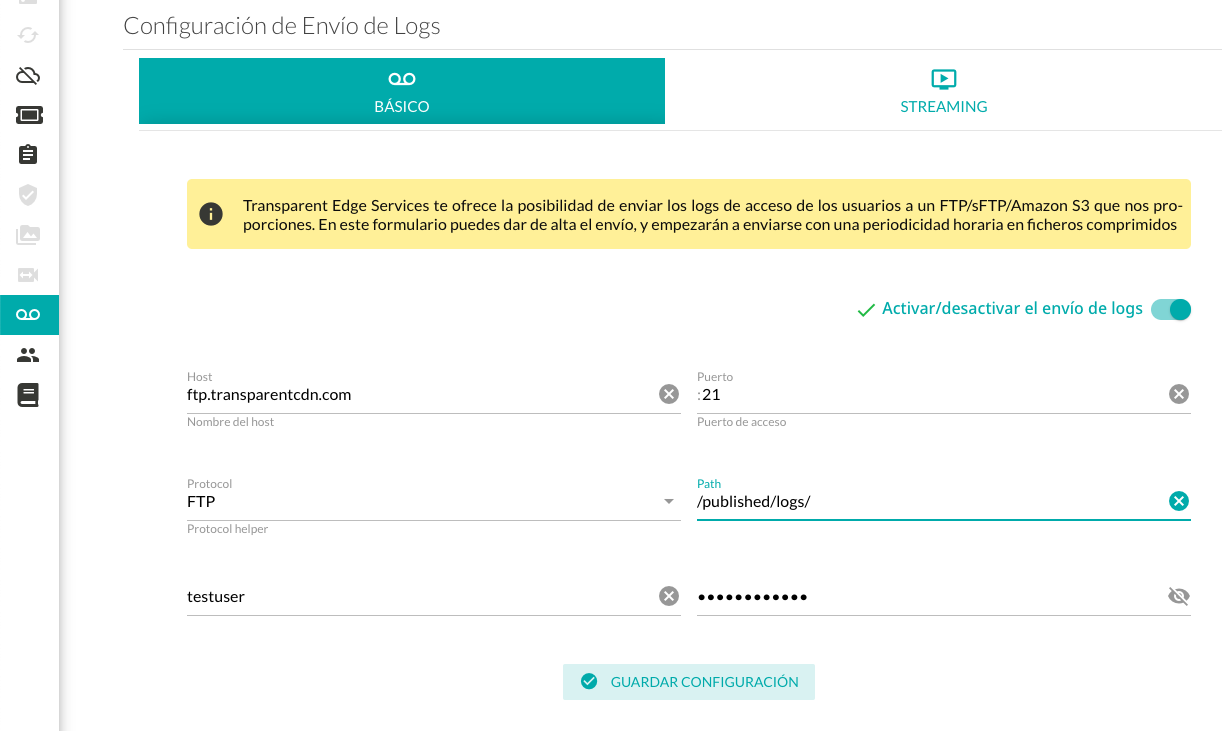
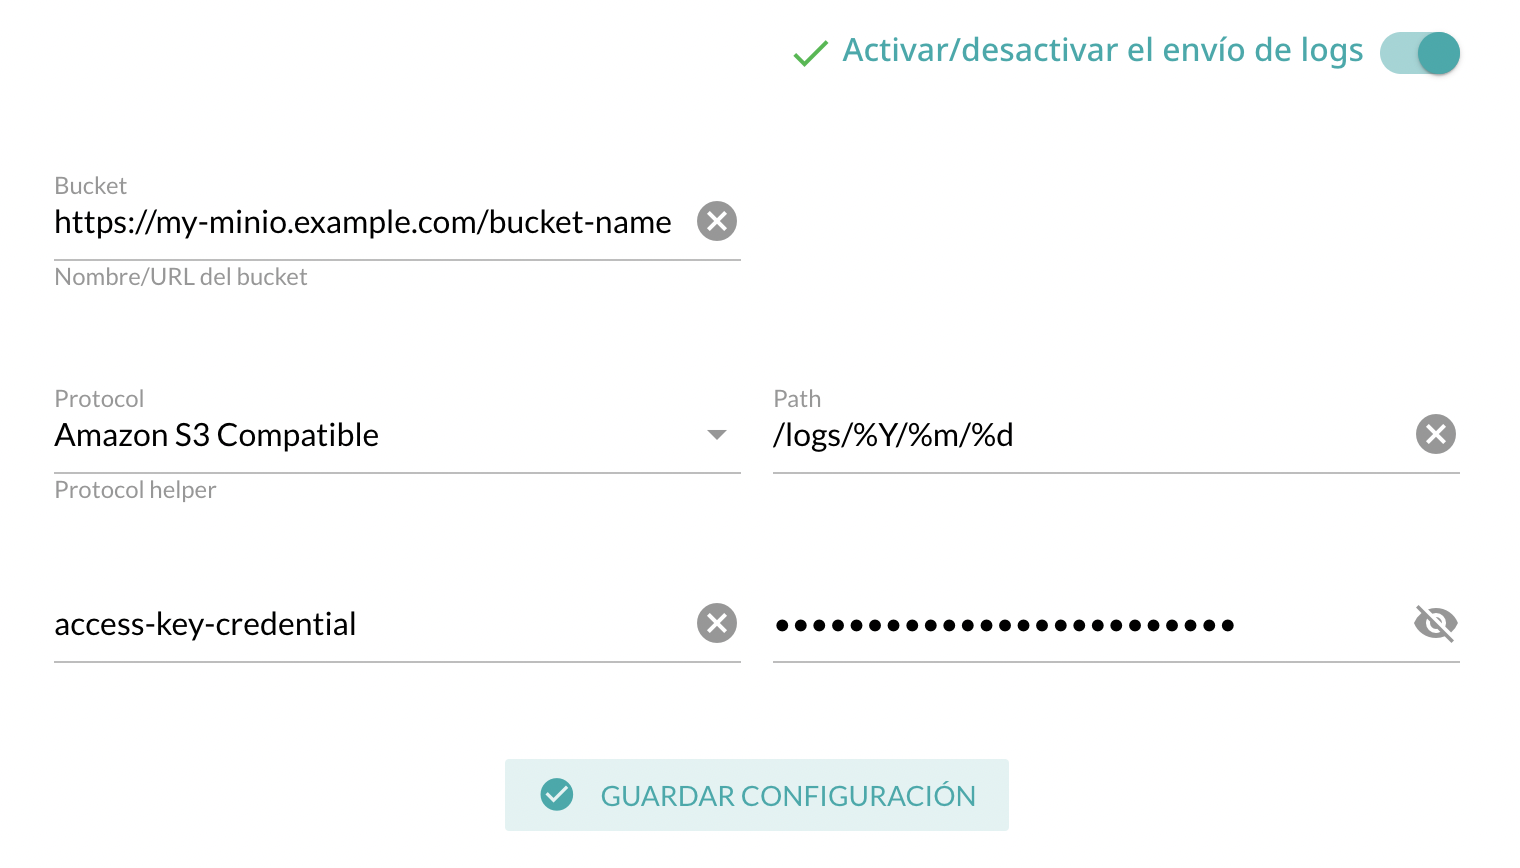
GitBook: [#540] No subject

diff --git a/getting-started/dashboard/envio-de-logs.md b/getting-started/dashboard/envio-de-logs.md
@@ -23,19 +23,33 @@ En esta opción se pueden hacer llegar los logs a un FTP/sFTP arbitrario.
 
 Para configurarlo, simplemente se debe seleccionar el protocolo adecuado e introducir los datos requeridos, una vez activado y validado empezarán a llegar los _logs_ en el envío programado siguiente.
 
-<figure><img src="../../.gitbook/assets/image (3).png" alt=""><figcaption></figcaption></figure>
+<figure><img src="../../.gitbook/assets/image (3) (2).png" alt=""><figcaption></figcaption></figure>
 
 ### Envío de logs Amazon S3 Compatible
 
+Esta opción permite enviar los _logs_ directamente a un _bucket_ S3 compatible.
 
+Para poder configurarlo se necesitan credenciales con acceso programático y una política asociada que permita, como mínimo realizar subidas al _bucket_ a utilizar.
 
-Ofrece la opción de enviar los _logs_ directamente a un _bucket_ de S3.
+El campo "_Bucket_" acepta dos formatos:
 
-Para poder configurarlo se necesitan credenciales con acceso programático y una política asociada que permita como mínimo realizar subidas en el _bucket_ a utilizar.
+* **\<ENDPOINT\_URL**_**>/<**_**BUCKET\_NAME>**
+* **\<BUCKET\_NAME>** (Unicamente para AWS S3)
 
-El _bucket_ a especificar debe ser su nombre, tal cual se ha configurado en S3 (no la URL), dicho nombre es el que se usó al crear el bucket en S3, las reglas de nombrado están [aquí](https://docs.aws.amazon.com/AmazonS3/latest/userguide/bucketnamingrules.html).
+Donde `ENDPOINT_URL` es la _URL_ que aloja el servicio S3, si el _bucket_ está alojado en AWS S3 se puede omitir y únicamente especificar `BUCKET_NAME`, si se desea incluir igualmente (por ejemplo, para apuntar a una región específica), se debe extraer del domino el nombre del _bucket_, por ejemplo `https://tcdn-testing.s3.us-east-1.amazonaws.com/tcdn-testing` se transformaría en `https://s3.us-east-1.amazonaws.com/tcdn-testing`.
 
 <figure><img src="../../.gitbook/assets/image (5).png" alt=""><figcaption></figcaption></figure>
+
+### Categorizar logs por fecha en el destino
+
+A la hora de configurar el envío de logs, el campo "_Path_" (que es la ruta remota donde se almacenarán los logs) admite unas máscaras especiales que se expanden con la fecha actual:
+
+* `%Y` - año, eg: 2022
+* `%m` - mes, eg: 09
+* `%d` - día, eg: 24
+* `%H` - hora, eg: 13
+
+Por ejemplo, si en el campo "_Path_" se especifica el valor `/tcdn-logs/%Y/%m/%d` y hoy es 24 de Agosto de 2022, cuando se ejecute el envío de logs, los ficheros serán almacenados remotamente en la ruta `/tcdn-logs/2022/08/22/*.gz`.
 
 ### Logs en streaming
 
